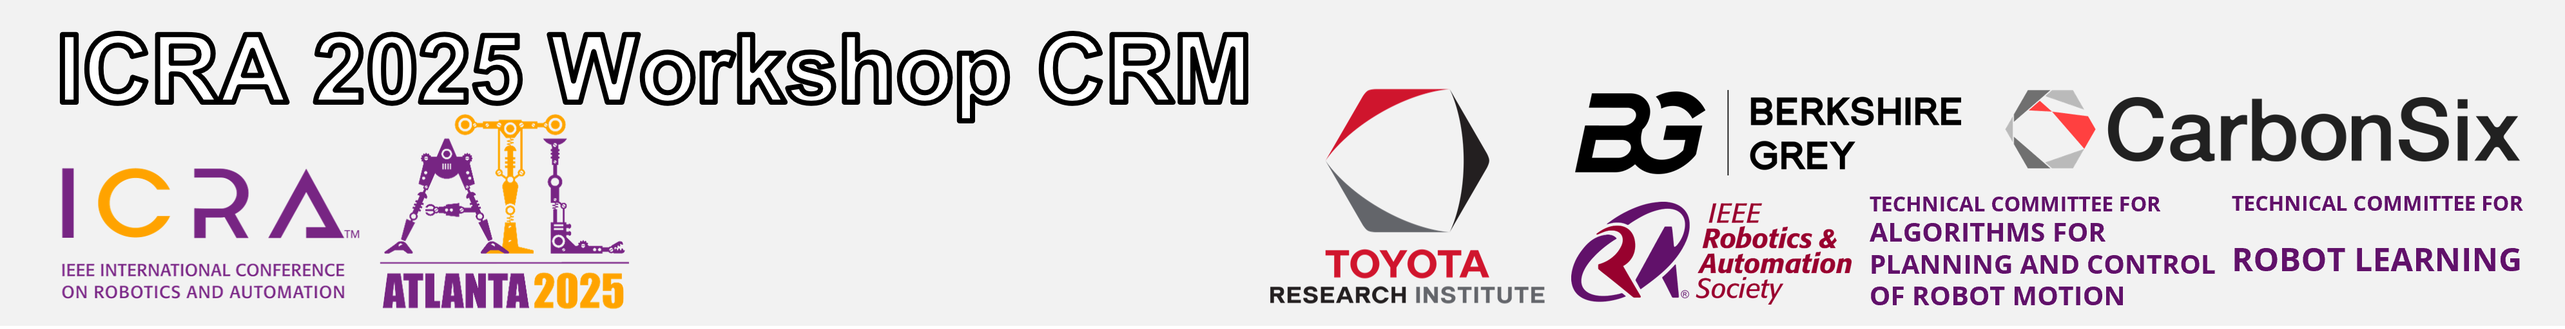
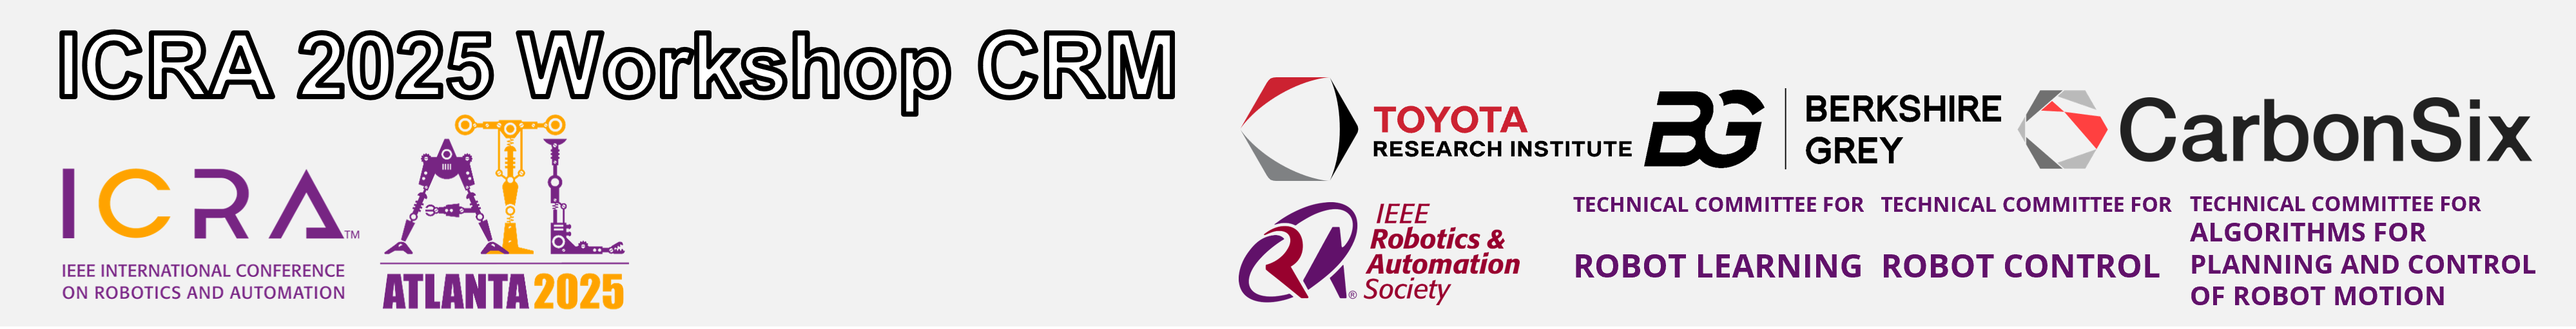
new sponsor update

diff --git a/index.md b/index.md
@@ -162,6 +162,14 @@ Submission will be accepted through [OpenReview](https://openreview.net/group?id
             <figcaption style="font-size: 18px; margin-top: 10px;">Technical Committee for Robot Learning</figcaption>
         </figure>
     </div>
+    <div>
+        <figure style="text-align: center;">
+            <a href="https://ieee-ras-robot-control.github.io/" target="_blank">
+                <img src="assets/img/sponsors/ras-robot-control-logo.png" style="height: 180px; object-fit: contain;" alt="TC for robot control" />
+            </a>
+            <figcaption style="font-size: 18px; margin-top: 10px;">Technical Committee for Robot Control</figcaption>
+        </figure>
+    </div>
     
 </div>
 
